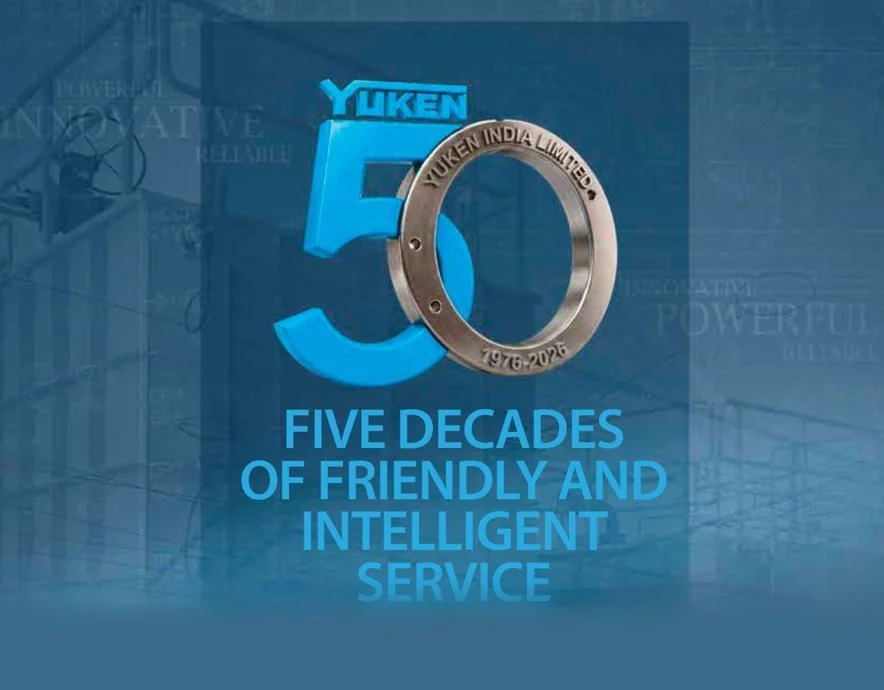
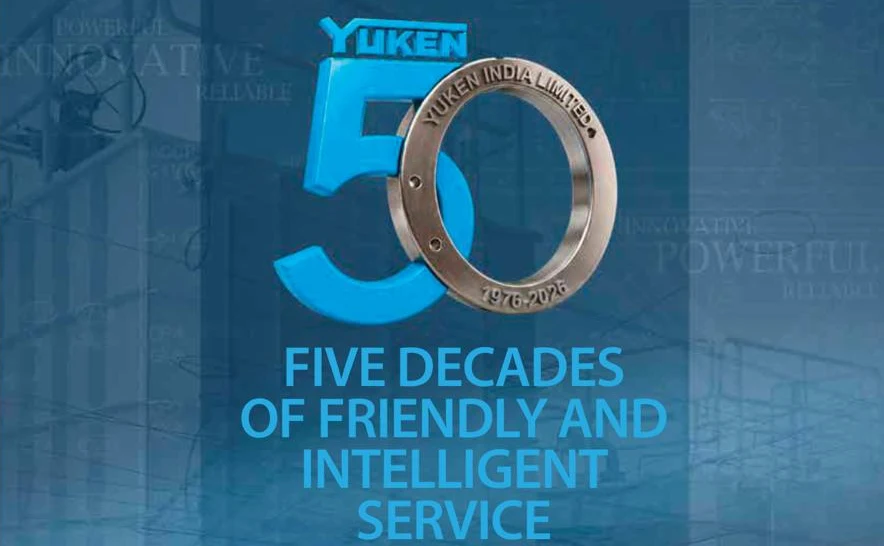
Login hero: drop the blurred bottom patch; fix PIN placeholder letter-spacing
Owner feedback: the previous commit's blurred/feathered extension
below "SERVICE" read as gloomy/murky against the crisp photo above
it — asked for a nicer border instead. Separately, "Enter PIN" was
rendering in widely letter-spaced capitals while "Enter employee
number" right above it was normal — inconsistent and confusing.

Login hero: replaced the blur-extended crop with a tight, fully sharp
one — top trimmed close to where YUKEN starts, bottom ends exactly at
the photo's real edge (no synthetic pixels, nothing to blur). Equal
spacing on every side is now a plain 22px/14px padding on
.loginArtwork img, so the panel's own gradient frames a crisp photo
symmetrically regardless of viewport aspect, instead of depending on
object-fit:contain's letterboxing to happen to land evenly.

PIN placeholder: .pinField input set letter-spacing:.32em
unconditionally, meant to space out real 4-digit PIN entry but
catching the "Enter PIN" placeholder text too. Scoped it to
:not(:placeholder-shown) so the placeholder matches the employee
number field's normal spacing, and typed digits still get the wider
spacing once there's a real value.

Verified: tsc --noEmit clean, ESLint clean, 33 of 33 tests passed.
Live-checked on the local preview build after a hard reload.

diff --git a/app/globals.css b/app/globals.css
@@ -6,13 +6,13 @@
 .loginPage{min-height:100svh;display:grid;place-items:center;padding:16px;background:#0c1723}
 .loginShell{width:min(430px,100%);height:min(860px,calc(100svh - 32px));min-height:560px;display:flex;flex-direction:column;overflow:hidden;border:1px solid rgba(225,199,127,.32);border-radius:36px;background:linear-gradient(180deg,#071e36,#06192c);box-shadow:0 28px 78px rgba(0,0,0,.38)}
 .loginArtwork{position:relative;flex:1 1 60%;min-height:0;display:flex;align-items:center;justify-content:center;margin:10px 10px 0;overflow:hidden;border:1px solid rgba(240,214,139,.8);border-radius:26px 26px 16px 16px;background:linear-gradient(160deg,var(--navy-900),var(--navy-950));box-shadow:0 14px 30px rgba(0,0,0,.22)}
-.loginArtwork img{width:100%;height:100%;display:block;object-fit:contain}
+.loginArtwork img{width:100%;height:100%;display:block;object-fit:contain;padding:22px 14px}
 .loginPanel{flex:0 0 auto;min-height:0;padding:10px 18px calc(14px + env(safe-area-inset-bottom));color:var(--white)}
 .loginPanel .loginMark{margin-bottom:6px;color:var(--blue-500);font-size:11px}
 .loginPanel .loginMark b{color:var(--gold-300);font:20px Georgia,serif}
 .loginInstruction{margin:0 0 8px;color:rgba(255,255,255,.72);font-size:13px;line-height:1.35}
 .authLoginForm{display:grid;gap:0}.authLoginForm label>span{display:block;color:rgba(255,255,255,.78);font-size:12px;font-weight:850;letter-spacing:.08em;text-transform:uppercase}.authLoginForm>label{margin-bottom:4px}.authLoginForm input{width:100%;height:46px;border:1px solid rgba(255,255,255,.25);border-radius:11px;padding:0 14px;background:rgba(255,255,255,.085);color:var(--white);font-size:16px;font-weight:700}.authLoginForm input::placeholder{color:rgba(255,255,255,.38);font-weight:500}.authLoginForm input:focus{border-color:#5bc5f2;box-shadow:0 0 0 3px rgba(91,197,242,.2)}
-.pinLabelRow{min-height:30px;display:flex;align-items:end;justify-content:space-between;gap:12px}.pinLabelRow button{min-height:30px;border:0;padding:0 2px;background:transparent;color:#5bc5f2;font-size:11px;font-weight:800;text-decoration:underline;text-underline-offset:3px}.pinField{position:relative}.pinField input{padding-right:62px;letter-spacing:.32em}.pinField>button{position:absolute;right:5px;top:4px;min-width:50px;height:38px;border:0;border-radius:8px;background:transparent;color:#5bc5f2;font-size:11px;font-weight:850;text-align:center}
+.pinLabelRow{min-height:30px;display:flex;align-items:end;justify-content:space-between;gap:12px}.pinLabelRow button{min-height:30px;border:0;padding:0 2px;background:transparent;color:#5bc5f2;font-size:11px;font-weight:800;text-decoration:underline;text-underline-offset:3px}.pinField{position:relative}.pinField input{padding-right:62px}.pinField input:not(:placeholder-shown){letter-spacing:.32em}.pinField>button{position:absolute;right:5px;top:4px;min-width:50px;height:38px;border:0;border-radius:8px;background:transparent;color:#5bc5f2;font-size:11px;font-weight:850;text-align:center}
 .primaryAction{min-height:46px;border:0;border-radius:11px;background:linear-gradient(135deg,#55c8f4,#2bace2);color:#06213a;font-weight:900;box-shadow:0 8px 20px rgba(0,0,0,.18)}.primaryAction:hover{background:#43b9e8}.formStatus{min-height:20px;margin:3px 0;color:rgba(255,255,255,.7);font-size:11px;line-height:1.35}.previewAction{margin-top:8px;color:var(--navy-900)}
 @media(max-width:480px){.loginPage{padding:calc(10px + env(safe-area-inset-top,0px)) 10px calc(10px + env(safe-area-inset-bottom,0px))}.loginShell{width:100%;height:min(860px,calc(100svh - 20px - env(safe-area-inset-top,0px) - env(safe-area-inset-bottom,0px)));min-height:500px;border-radius:26px}.loginArtwork{border-radius:18px 18px 15px 15px}.loginPanel{padding-left:16px;padding-right:16px}}
 @media(max-height:700px){.loginPage{padding:calc(6px + env(safe-area-inset-top,0px)) 6px calc(6px + env(safe-area-inset-bottom,0px))}.loginShell{height:calc(100svh - 12px - env(safe-area-inset-top,0px) - env(safe-area-inset-bottom,0px));min-height:0;border-radius:20px}.loginArtwork{flex-basis:48%;margin:7px 7px 0}.loginPanel{padding:7px 15px calc(7px + env(safe-area-inset-bottom))}.loginInstruction{margin-bottom:5px}.authLoginForm input{height:42px}.pinLabelRow{min-height:27px}.primaryAction{min-height:40px}.formStatus{min-height:17px;margin:2px 0}}
